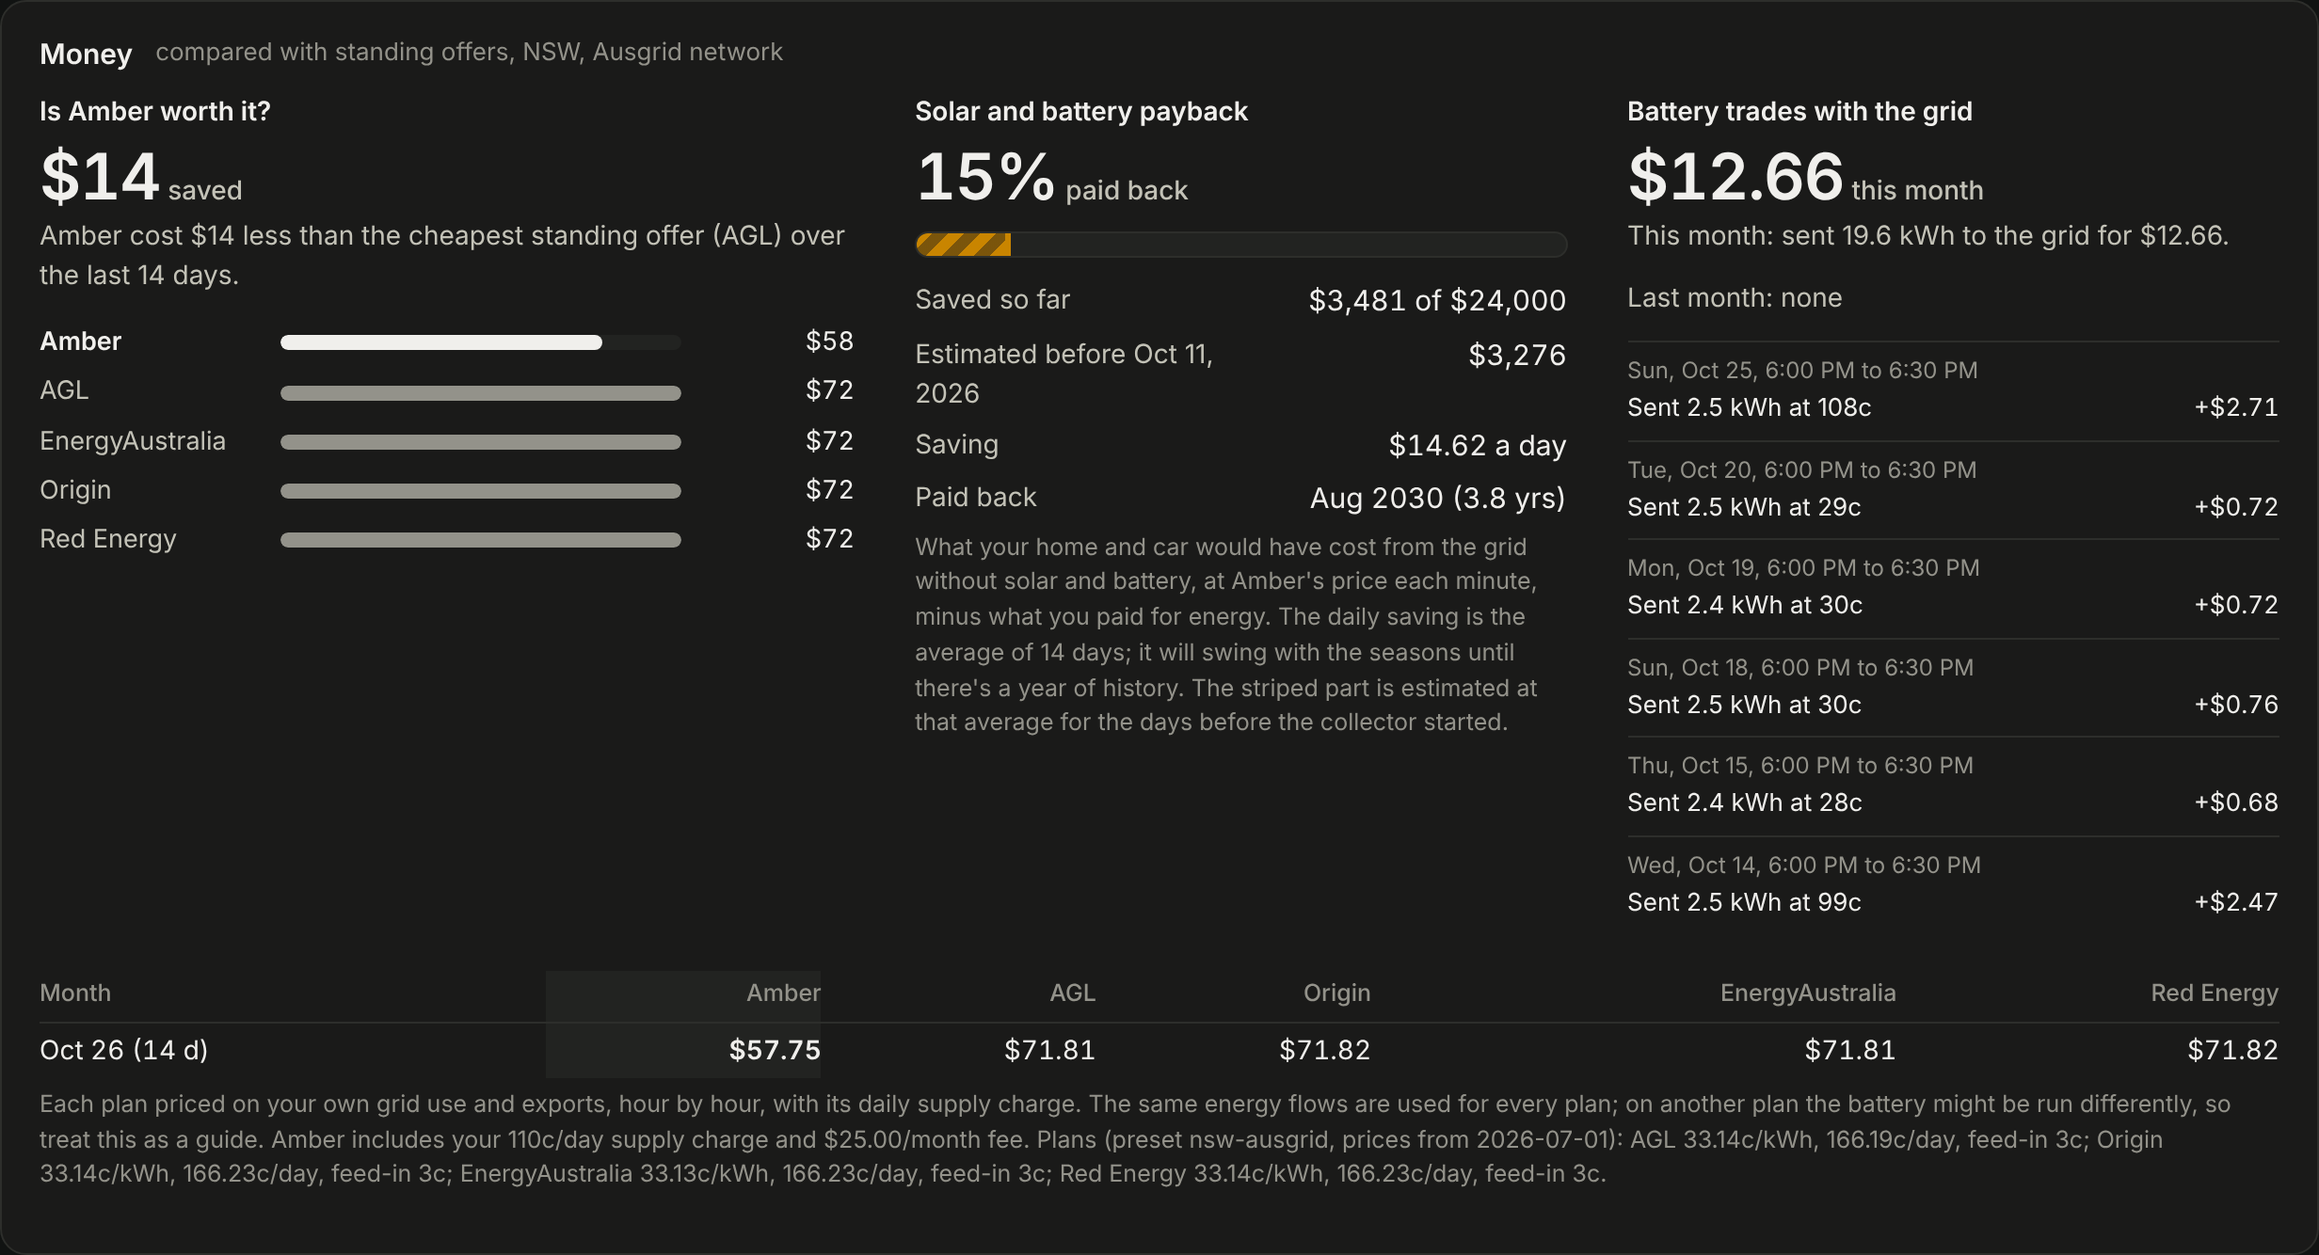
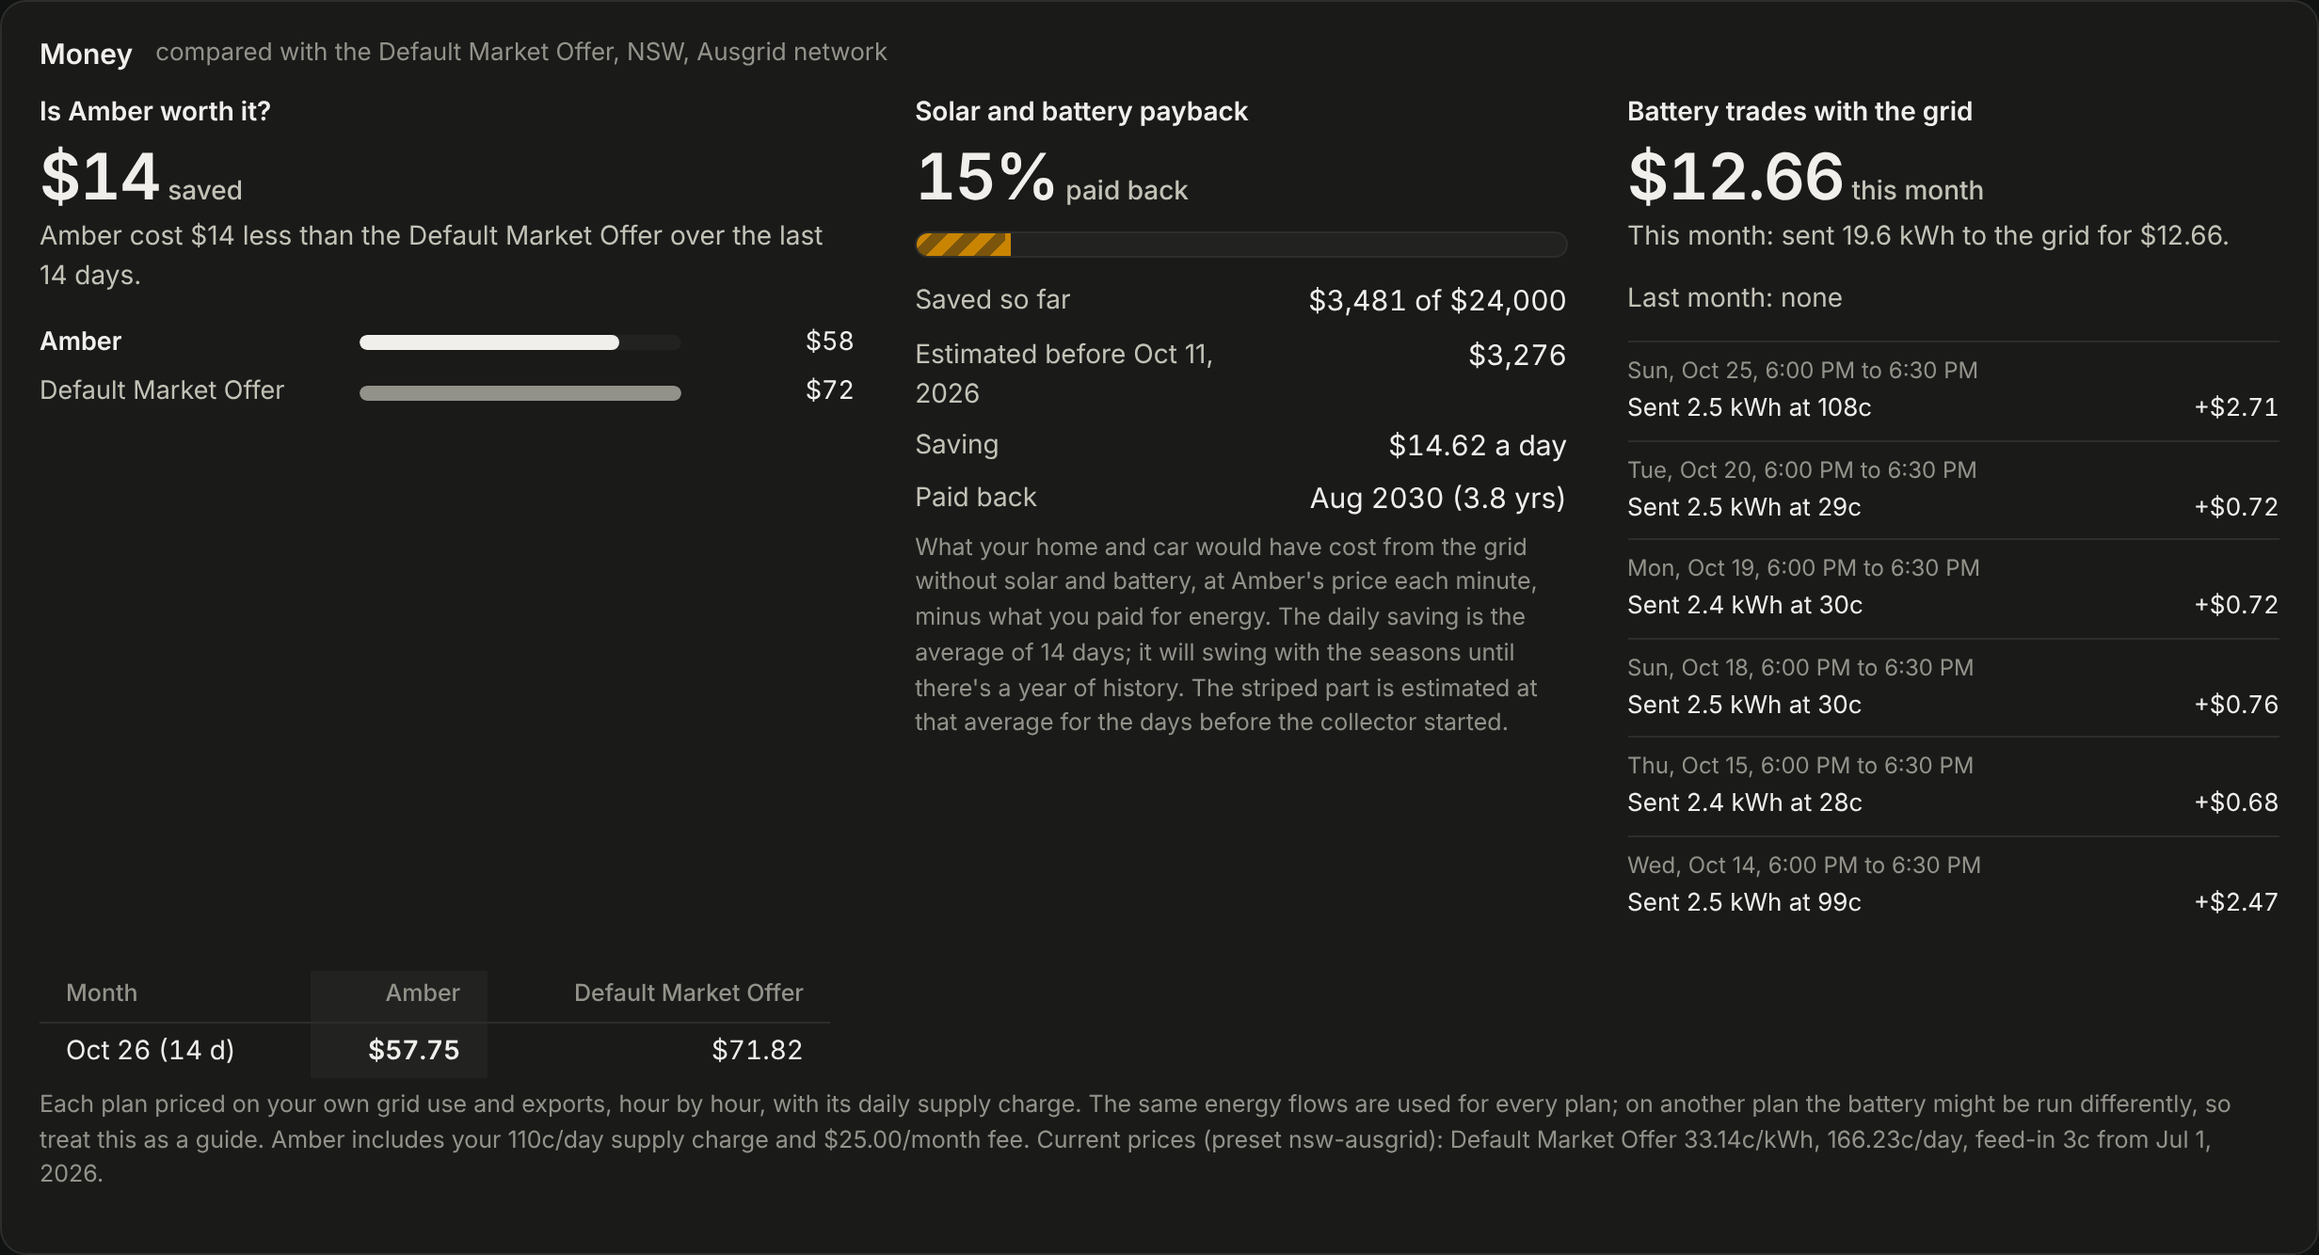
Money: compare with the Default Market Offer, with dated yearly prices
Claude-Session: https://claude.ai/code/session_015nhbUDYGJqnTyF2hbuQFnR

diff --git a/web/dashboard.js b/web/dashboard.js
@@ -215,14 +215,14 @@
     if (panel.hidden) return;
     const me = d.retailer || "Your retailer";
     const cmp = d.compare, pb = d.payback, tr = d.trades || {}, pl = d.plans;
-    $("money-sub").textContent = pl && pl.title ? `compared with standing offers, ${pl.title}` : "";
+    $("money-sub").textContent = pl ? `compared with ${pl.list.length === 1 ? `the ${pl.list[0].name}` : "other plans"}${pl.title ? `, ${pl.title}` : ""}` : "";
 
     // ---- is your retailer worth it?
     const c1 = $("money-compare"); c1.innerHTML = "";
     c1.append(el("h3", { text: `Is ${me} worth it?` }));
     if (!pl) {
       c1.append(el("div", { class: "setup" },
-        el("p", { text: "Compare what you pay with other retailers' standard plans, using your own usage hour by hour." }),
+        el("p", { text: "Compare what you pay with the Default Market Offer (the standard-plan price cap) or your own quotes, using your own usage hour by hour." }),
         el("p", {}, "Set ", el("code", { text: "COMPARE_PLANS" }), " to ", el("code", { text: "nsw-ausgrid" }), ", ",
           el("code", { text: "nsw-endeavour" }), " or ", el("code", { text: "nsw-essential" }),
           ", or put your own plans in ", el("code", { text: "plans.json" }), " in the data folder.")));
@@ -232,7 +232,7 @@
       const t = cmp.total, best = t.cheapest, diff = t.saving_vs_cheapest;
       const span = t.days >= 360 ? "the last 12 months" : `the last ${t.days} day${t.days === 1 ? "" : "s"}`;
       c1.append(el("div", { class: "big" }, money$(Math.abs(diff)), el("small", { text: diff >= 0 ? "saved" : "extra" })),
-        el("p", { class: "lead", text: `${me} cost ${money$(Math.abs(diff))} ${diff >= 0 ? "less" : "more"} than the cheapest standing offer (${best}) over ${span}${cmp.energy_only ? ", energy only" : ""}.` }));
+        el("p", { class: "lead", text: `${me} cost ${money$(Math.abs(diff))} ${diff >= 0 ? "less" : "more"} than ${pl.list.length === 1 ? `the ${best}` : `the cheapest alternative (${best})`} over ${span}${cmp.energy_only ? ", energy only" : ""}.` }));
       const rows = [[me, t.actual, true], ...Object.entries(t.plans).map(([n, v]) => [n, v, false])].sort((a, b) => a[1] - b[1]);
       const max = Math.max(...rows.map((r) => Math.abs(r[1])), 1);
       for (const [n, v, mine] of rows) {
@@ -316,7 +316,10 @@
       notes.push(`Each plan priced on your own grid use and exports, hour by hour${cmp && cmp.energy_only ? "" : ", with its daily supply charge"}. The same energy flows are used for every plan; on another plan the battery might be run differently, so treat this as a guide.`);
       if (cmp && cmp.energy_only) notes.push(`Energy only: set RETAILER_SUPPLY_C_DAY (and RETAILER_FEE_MONTHLY for a membership fee) from your ${me} bill to include supply charges.`);
       else if (d.fixed_known) notes.push(`${me} includes your ${d.supply_c_day}c/day supply charge${d.fee_monthly ? ` and ${money$(d.fee_monthly, 2)}/month fee` : ""}.`);
-      notes.push(`Plans (${pl.source}${pl.as_of ? `, prices from ${pl.as_of}` : ""}): ` + pl.list.map((p) => `${p.name} ${p.tou ? "time of use" : `${(+p.usage_c_kwh).toFixed(2)}c/kWh`}, ${(+p.supply_c_day).toFixed(2)}c/day, feed-in ${p.feed_in_c_kwh == null ? "–" : `${p.feed_in_c_kwh}c`}`).join("; ") + ".");
+      const fromTxt = (d) => new Date(d + "T12:00:00").toLocaleDateString([], { day: "numeric", month: "short", year: "numeric" });
+      notes.push(`Current prices (${pl.source}): ` + pl.list.map((p) => `${p.name} ${p.tou ? "time of use" : `${(+p.usage_c_kwh).toFixed(2)}c/kWh`}, ${(+p.supply_c_day).toFixed(2)}c/day, feed-in ${p.feed_in_c_kwh == null ? "–" : `${p.feed_in_c_kwh}c`}${p.from ? ` from ${fromTxt(p.from)}` : ""}`).join("; ") + ".");
+      const early = pl.list.find((p) => p.first_from && cmp && cmp.months && cmp.months.length && cmp.months[0].month + "-31" < p.first_from);
+      if (early) notes.push(`Months before ${fromTxt(early.first_from)} use the earliest prices in the plans file.`);
     }
     $("money-note").textContent = notes.join(" ");
   }

diff --git a/web/style.css b/web/style.css
@@ -436,7 +436,7 @@ dialog .row { display: flex; gap: 8px; justify-content: flex-end; margin-top: 16
 .money-col .lead { font-size: 14px; color: var(--ink-2); margin: 2px 0 12px; }
 .money-col .big { font: 600 34px/1.1 var(--font-num); font-variant-numeric: tabular-nums; letter-spacing: -0.02em; }
 .money-col .big small { font-size: 14px; font-weight: 500; color: var(--ink-2); margin-left: 4px; letter-spacing: 0; }
-.cmp-row { grid-template-columns: 118px 1fr 82px; }
+.cmp-row { grid-template-columns: 160px 1fr 82px; }
 .cmp-row.mine .mix-k { color: var(--ink); font-weight: 600; }
 .cmp-row.mine .mix-bar i { background: var(--ink); }
 .meter { display: flex; height: 14px; background: var(--surface-2); border-radius: 7px; overflow: hidden; margin: 10px 0 12px; border: 1px solid var(--rule); }
@@ -446,7 +446,8 @@ dialog .row { display: flex; gap: 8px; justify-content: flex-end; margin-top: 16
 .trade-list li { display: grid; grid-template-columns: 1fr auto; gap: 2px 10px; padding: 6px 0; border-top: 1px solid var(--rule); }
 .trade-list .when { color: var(--ink-3); grid-column: 1 / -1; font-size: 12px; }
 .trade-list .amt { font-family: var(--font-num); font-variant-numeric: tabular-nums; text-align: right; }
-.money-table { margin-top: 20px; }
+.money-table { margin-top: 20px; width: auto; min-width: min(100%, 420px); }
+.money-table th, .money-table td { padding-left: 14px; padding-right: 14px; }
 .money-table td.best { font-weight: 600; }
 .money-table td.mine, .money-table th.mine { background: var(--surface-2); }
 .money-table th, .money-table td { white-space: nowrap; }

diff --git a/collector/money.py b/collector/money.py
@@ -22,6 +22,14 @@ or, for time of use, rules checked in order (the last one with no conditions is 
 "hours": [start, end) in local time; "days": "weekdays" | "weekends" | "all". Public holidays
 are treated as ordinary days. "feed_in" takes the same rules as "usage".
 
+Prices change (usually each 1 July). To keep past months at the prices in force then, give a
+plan dated rate periods; each applies from its date until the next one (days before the first
+period use the first):
+
+  {"name": "Default Market Offer", "rates": [
+     {"from": "2026-07-01", "supply_c_day": 185.1, "usage_c_kwh": 33.7, "feed_in_c_kwh": 3.0},
+     {"from": "2027-07-01", "supply_c_day": ..., "usage_c_kwh": ..., "feed_in_c_kwh": ...}]}
+
 Payback
   SYSTEM_COST against savings: what the home and car would have cost from the grid without
   solar and battery, at your retailer's price each minute, minus what you actually paid for
@@ -64,6 +72,18 @@ def rate(rules, flat, lt):
                 return float(r.get("c_kwh") or 0)
         return 0.0
     return float(flat or 0)
+
+
+def rates_on(plan, day):
+    """The plan's prices in force on a local day ("YYYY-MM-DD"): its dated period, or the plan itself."""
+    periods = sorted(plan.get("rates") or [], key=lambda r: r.get("from", ""))
+    if not periods:
+        return plan
+    cur = periods[0]
+    for r in periods:
+        if r.get("from", "") <= day:
+            cur = r
+    return cur
 
 
 class Money:
@@ -117,16 +137,17 @@ class Money:
             return self._day_cache[key]
         flows = self.store.hourly_flows(day)
         out = {"plans": {}, "baseline": None, "import": 0.0, "export": 0.0, "load": 0.0}
-        for p in plans["plans"]:
+        for plan in plans["plans"]:
+            p = rates_on(plan, day)
             usage = feed = 0.0
             for h, imp, exp, load in flows:
                 lt = datetime.fromtimestamp(h, self.tz)
                 usage += imp * rate(p.get("usage"), p.get("usage_c_kwh"), lt)
                 feed += exp * rate(p.get("feed_in"), p.get("feed_in_c_kwh"), lt)
             supply = float(p.get("supply_c_day") or 0)
-            out["plans"][p["name"]] = {"supply": supply / 100, "usage": usage / 100, "feed_in": feed / 100,
-                                       "total": (supply + usage - feed) / 100}
-        base = plans["plans"][0] if plans["plans"] else None
+            out["plans"][plan["name"]] = {"supply": supply / 100, "usage": usage / 100, "feed_in": feed / 100,
+                                          "total": (supply + usage - feed) / 100}
+        base = rates_on(plans["plans"][0], day) if plans["plans"] else None
         if base:  # energy only (fallback for payback when there are no per-minute prices)
             out["baseline"] = sum(load * rate(base.get("usage"), base.get("usage_c_kwh"),
                                               datetime.fromtimestamp(h, self.tz)) for h, imp, exp, load in flows) / 100
@@ -176,10 +197,15 @@ class Money:
         # ---- comparison
         if plans and plans["plans"]:
             out["plans"] = {k: plans[k] for k in ("source", "title", "as_of", "note")}
-            out["plans"]["list"] = [{"name": p["name"], "plan": p.get("plan"), "source": p.get("source"),
-                                     "supply_c_day": p.get("supply_c_day"), "usage_c_kwh": p.get("usage_c_kwh"),
-                                     "feed_in_c_kwh": p.get("feed_in_c_kwh"), "tou": bool(p.get("usage"))}
-                                    for p in plans["plans"]]
+            lst = []
+            for p in plans["plans"]:
+                r = rates_on(p, today)  # today's prices, for the notes
+                firsts = sorted(x.get("from", "") for x in p.get("rates") or [])
+                lst.append({"name": p["name"], "plan": p.get("plan"), "source": r.get("source") or p.get("source"),
+                            "supply_c_day": r.get("supply_c_day"), "usage_c_kwh": r.get("usage_c_kwh"),
+                            "feed_in_c_kwh": r.get("feed_in_c_kwh"), "tou": bool(r.get("usage")),
+                            "from": r.get("from"), "first_from": firsts[0] if firsts else None})
+            out["plans"]["list"] = lst
             months = {}
             for d in complete:
                 r = self._day(d["day"], plans, today)

diff --git a/README.md b/README.md
@@ -105,14 +105,14 @@ AEMO's wholesale price, your region's generation mix, and every NEM region side 
   <img alt="Electricity price chart with Amber buy and sell prices and AEMO wholesale price, and the grid generation mix" src="docs/screenshots/prices-grid-light.png">
 </picture>
 
-**Money**: whether your retailer is worth it against other retailers' standard plans, priced
-on your own usage hour by hour; how far the solar and battery are towards paying for
+**Money**: whether your retailer is worth it against the Default Market Offer (or your own
+quotes), priced on your own usage hour by hour; how far the solar and battery are towards paying for
 themselves; and every time the battery traded with the grid (for example Amber SmartShift),
 with what it earned.
 
 <picture>
   <source media="(prefers-color-scheme: dark)" srcset="docs/screenshots/money-dark.png">
-  <img alt="Money panel: Amber compared with four standing offers, solar and battery payback progress with an estimated payback date, and recent battery exports to the grid with their value" src="docs/screenshots/money-light.png">
+  <img alt="Money panel: Amber compared with the Default Market Offer, solar and battery payback progress with an estimated payback date, and recent battery exports to the grid with their value" src="docs/screenshots/money-light.png">
 </picture>
 
 **Battery outlook**: where the battery's charge is heading until the end of tomorrow, with
@@ -354,17 +354,20 @@ Notes:
 
 The **Money** panel needs retailer prices (above) and a little setup in `sigen.env`:
 
-* **Is your retailer worth it?** Your own grid use and exports, hour by hour, priced on other
-  retailers' plans: daily supply charge, usage rate (flat or time of use) and feed-in tariff,
-  against what you actually paid, for each month and the last 12 months. Set
-  `COMPARE_PLANS` to a bundled set of standing offers (the default plans) for your network:
-  `nsw-ausgrid`, `nsw-endeavour` or `nsw-essential` (AGL, Origin, EnergyAustralia and Red
-  Energy, from 1 July 2026). Or copy one of [`collector/plans/`](collector/plans) to
-  `plans.json` in your data folder and edit it: any retailer, your own quote, time-of-use
-  windows, a different feed-in rate. Set `RETAILER_SUPPLY_C_DAY` (and `RETAILER_FEE_MONTHLY`
-  for a membership fee) from your own bill so your side includes them too; without them the
-  comparison is energy only. Every plan uses the same energy flows, so it's a guide: on a
-  different plan the battery might be run differently.
+* **Is your retailer worth it?** Your own grid use and exports, hour by hour, priced on
+  another plan (daily supply charge, usage rate flat or time of use, feed-in tariff) against
+  what you actually paid, for each month and the last 12 months. Set `COMPARE_PLANS` to your
+  network, `nsw-ausgrid`, `nsw-endeavour` or `nsw-essential`, to compare with the **Default
+  Market Offer**: the price cap the Australian Energy Regulator sets each year for standing
+  offers, which the big retailers' default plans sit at. It's official and changes once a year,
+  so nothing depends on retailer websites. Prices are dated: each year's apply from its 1 July,
+  so past months keep the prices in force then. To compare with a real quote too (market
+  offers are usually cheaper than the DMO), copy a file from [`collector/plans/`](collector/plans)
+  to `plans.json` in your data folder and add plans to it; time-of-use windows and your own
+  feed-in rate work there. Set `RETAILER_SUPPLY_C_DAY` (and `RETAILER_FEE_MONTHLY` for a
+  membership fee) from your own bill so your side includes them; without them the comparison
+  is energy only. Every plan uses the same energy flows, so it's a guide: on a different plan
+  the battery might be run differently.
 * **Payback**: set `SYSTEM_COST` (dollars) and optionally `SYSTEM_INSTALLED` (`2025-03-15`).
   Savings are what your home and car would have cost from the grid without solar and battery,
   at your retailer's price each minute, minus what you paid for energy (supply charges are paid
@@ -566,7 +569,7 @@ start; restart the container after editing).
 | `SOLAR_PLANES` | Roof faces as `tilt:azimuth:kW`, comma separated | one north face at 20° |
 | `WEATHER_ENABLED` | `0` to turn weather off | on |
 | **Checks** | | |
-| `COMPARE_PLANS` | Standing offers to compare with: `nsw-ausgrid`, `nsw-endeavour`, `nsw-essential` (or put `plans.json` in the data folder) | off |
+| `COMPARE_PLANS` | Compare with the Default Market Offer for your network: `nsw-ausgrid`, `nsw-endeavour`, `nsw-essential` (or put `plans.json` in the data folder) | off |
 | `RETAILER_SUPPLY_C_DAY` / `RETAILER_FEE_MONTHLY` | Your own retailer's daily supply charge (c/day) and monthly fee ($), from your bill | not included |
 | `SYSTEM_COST` / `SYSTEM_INSTALLED` | What the solar and battery cost ($) and the date it was switched on, for payback | off |
 | `INSULATION_WARN_MOHM` / `INSULATION_MIN_MOHM` | Insulation resistance warning and alarm levels, MΩ | `0.5` / `0.37` |

diff --git a/CHANGELOG.md b/CHANGELOG.md
@@ -7,13 +7,12 @@ update; the Docker image is tagged with the same version.
 
 ### Money
 - New **Money** panel
-- **Is your retailer worth it?** Your own grid use and exports, hour by hour, priced on other
-  retailers' plans (supply charge, usage rate flat or time of use, feed-in tariff) against what
-  you actually paid, month by month and over the last 12 months. Bundled 2026-27 standing
-  offers for AGL, Origin, EnergyAustralia and Red Energy on each NSW network
-  (`COMPARE_PLANS=nsw-ausgrid`, `nsw-endeavour` or `nsw-essential`), or your own plans in
-  `plans.json`. `RETAILER_SUPPLY_C_DAY` and `RETAILER_FEE_MONTHLY` add your own retailer's
-  fixed charges.
+- **Is your retailer worth it?** Your own grid use and exports, hour by hour, priced on the
+  Default Market Offer for your network (`COMPARE_PLANS=nsw-ausgrid`, `nsw-endeavour` or
+  `nsw-essential`; the standing-offer price cap, 2026-27) against what you actually paid, month
+  by month and over the last 12 months. Add your own quotes, time of use and feed-in in
+  `plans.json`. Plan prices are dated, so each year's apply from their start date.
+  `RETAILER_SUPPLY_C_DAY` and `RETAILER_FEE_MONTHLY` add your own retailer's fixed charges.
 - **Solar and battery payback** (`SYSTEM_COST`, `SYSTEM_INSTALLED`): savings so far against
   what the system cost, the daily saving and a projected payback date
 - **Battery trades with the grid**: each time the battery exported to the grid or charged from
